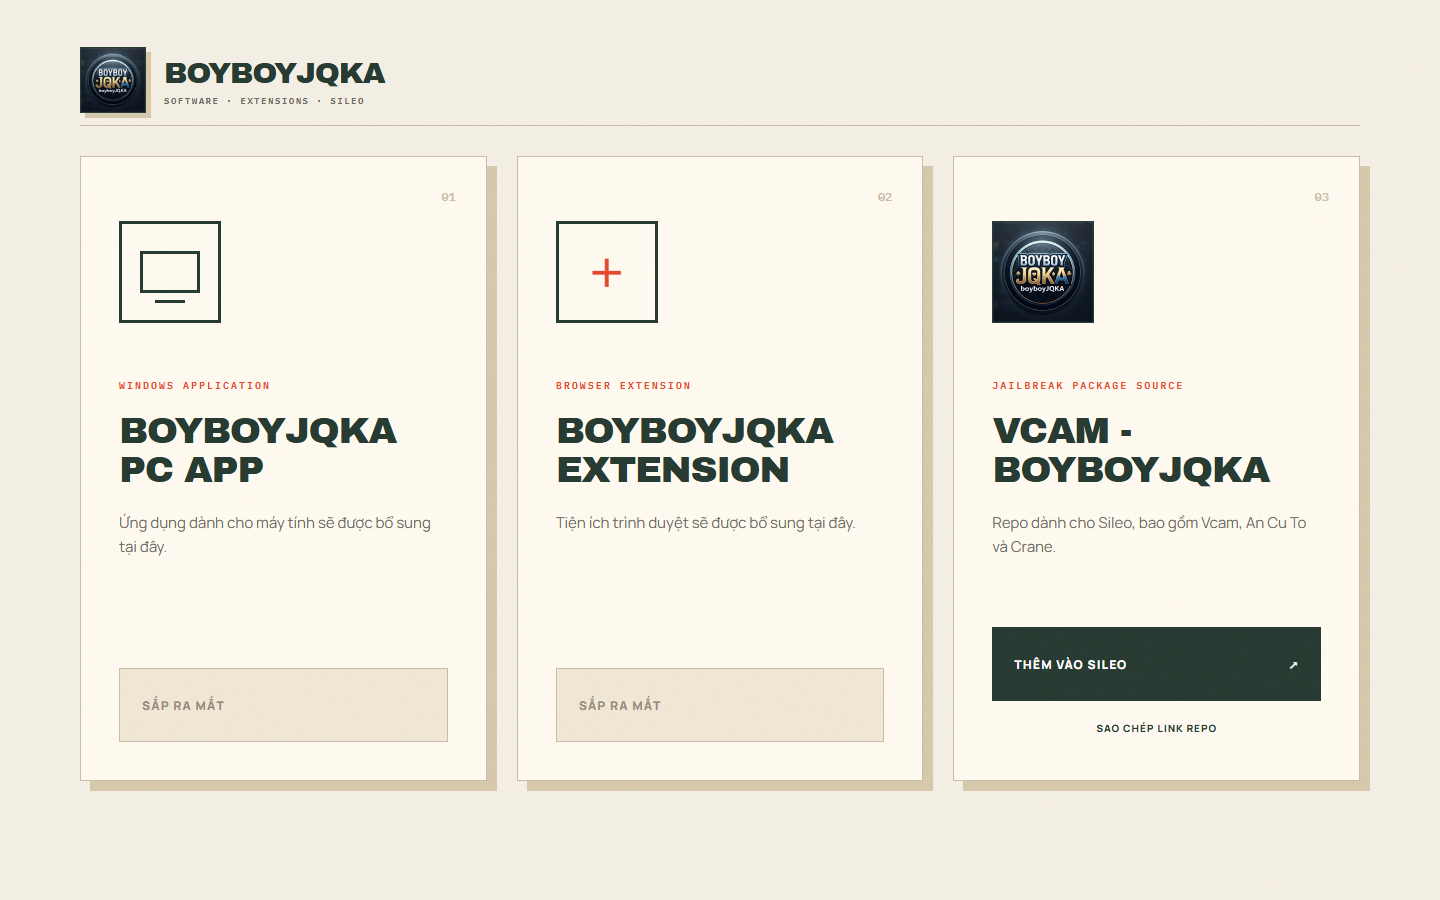
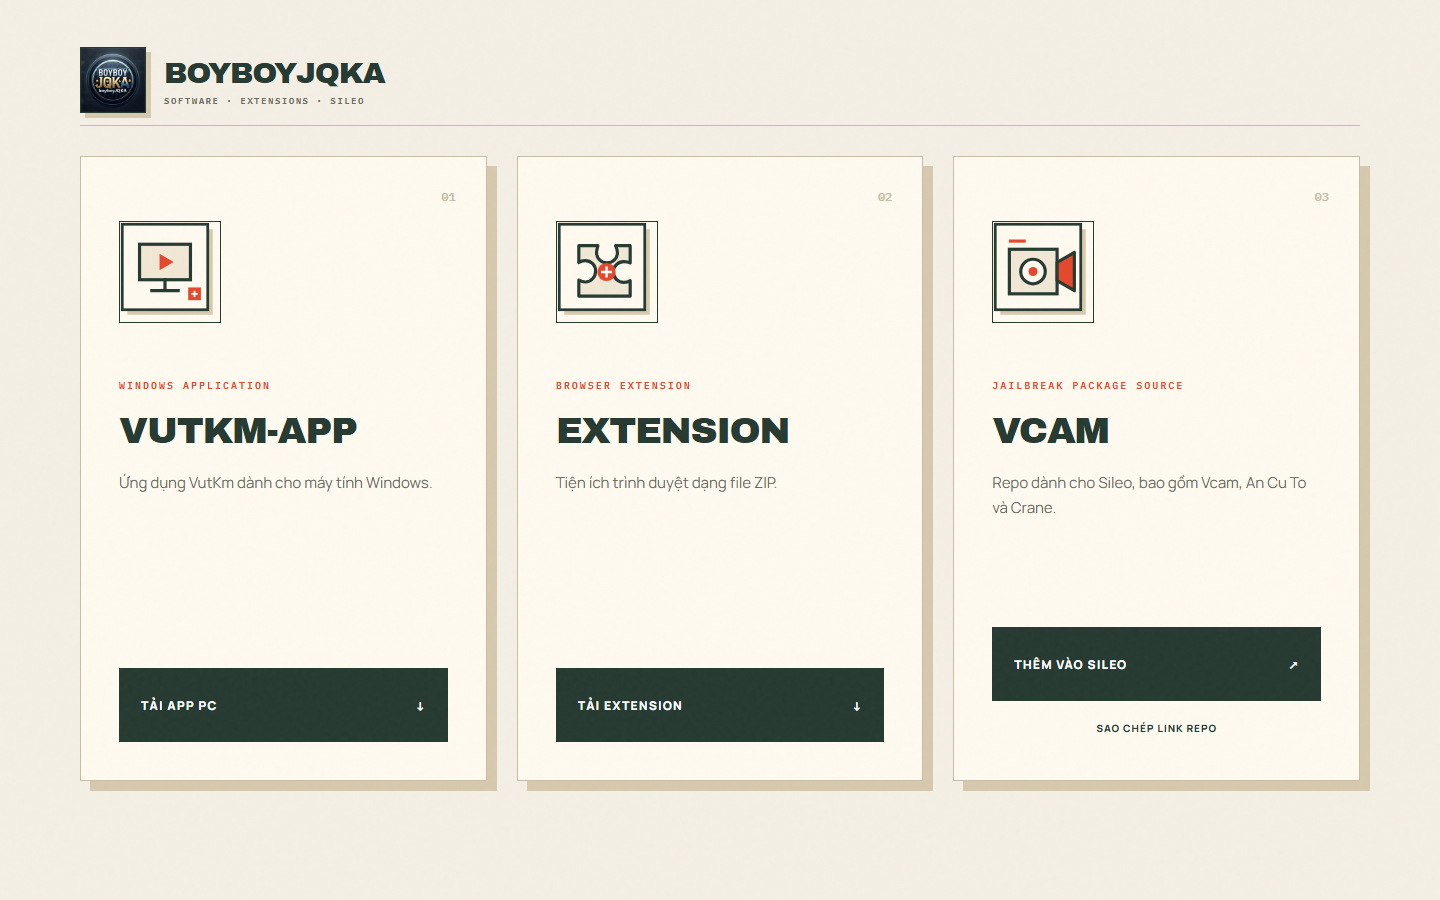
Restore header brand and add product artwork

diff --git a/index.html b/index.html
@@ -18,10 +18,10 @@
   <div class="paper-noise" aria-hidden="true"></div>
   <main class="page-shell wrap" id="top">
     <header class="masthead">
-      <a class="brand" href="#top" aria-label="VCAM - Trang chủ">
-      <img src="assets/logo.png" alt="Logo VCAM" width="84" height="84">
+      <a class="brand" href="#top" aria-label="BOYBOYJQKA - Trang chủ">
+      <img src="assets/logo.png" alt="Logo BOYBOYJQKA" width="84" height="84">
       <span>
-        <strong>VCAM</strong>
+        <strong>BOYBOYJQKA</strong>
         <small>SOFTWARE · EXTENSIONS · SILEO</small>
       </span>
       </a>
@@ -31,7 +31,7 @@
       <div class="product-grid">
         <article class="product-card muted-card">
           <div class="card-index">01</div>
-          <img class="product-logo" src="assets/logo.png" alt="VUTKM-APP">
+          <img class="product-logo" src="assets/product-vutkm.svg" alt="Biểu tượng VUTKM-APP">
           <p class="tag">WINDOWS APPLICATION</p>
           <h3>VUTKM-APP</h3>
           <p>Ứng dụng VutKm dành cho máy tính Windows.</p>
@@ -40,7 +40,7 @@
 
         <article class="product-card muted-card">
           <div class="card-index">02</div>
-          <img class="product-logo" src="assets/logo.png" alt="EXTENSION">
+          <img class="product-logo" src="assets/product-extension.svg" alt="Biểu tượng Extension">
           <p class="tag">BROWSER EXTENSION</p>
           <h3>EXTENSION</h3>
           <p>Tiện ích trình duyệt dạng file ZIP.</p>
@@ -49,7 +49,7 @@
 
         <article class="product-card repo-card">
           <div class="card-index">03</div>
-          <img class="product-logo" src="assets/logo.png" alt="VCAM">
+          <img class="product-logo" src="assets/product-vcam.svg" alt="Biểu tượng VCAM">
           <p class="tag">JAILBREAK PACKAGE SOURCE</p>
           <h3>VCAM</h3>
           <p>Repo dành cho Sileo, bao gồm Vcam, An Cu To và Crane.</p>
